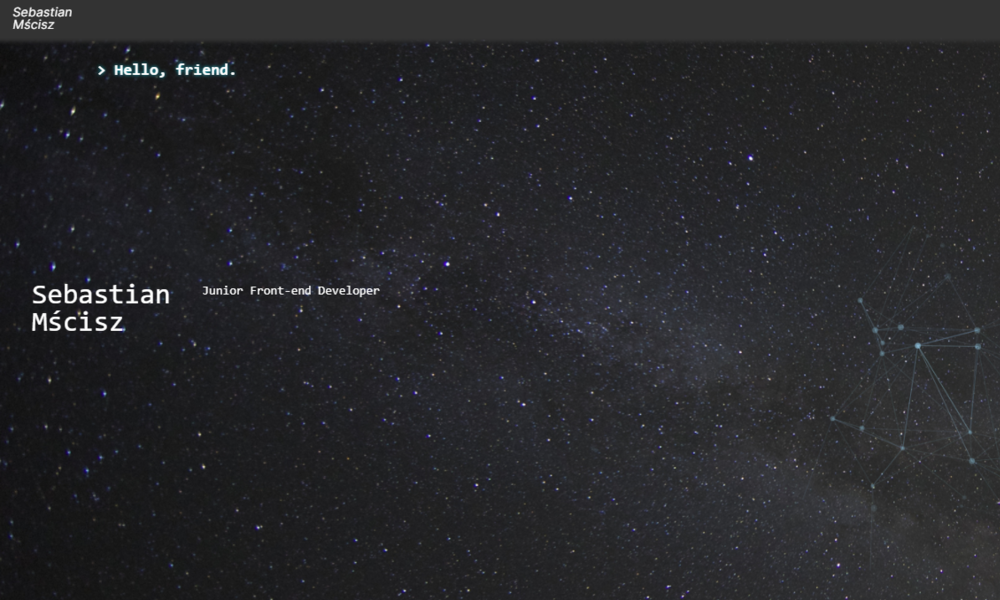
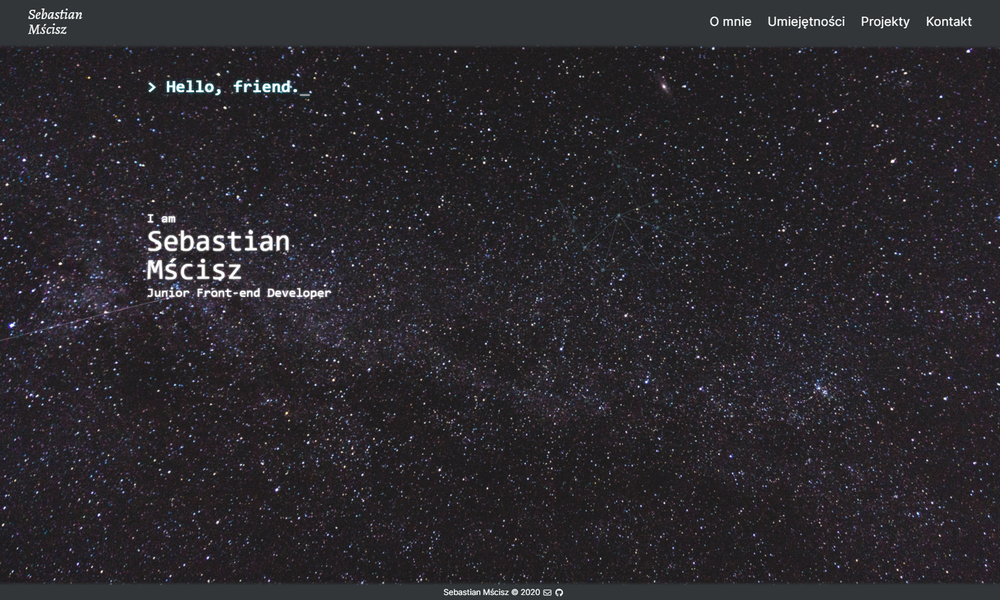
added hovered link on project images

diff --git a/src/layouts/NavBar.js b/src/layouts/NavBar.js
@@ -5,12 +5,6 @@ import { CSSTransition } from "react-transition-group";
 const NavBar = (props) => {
   return (
     <>
-      {/* <CSSTransition
-        in={props.toggleMenuVisibility}
-        timeout={700}
-        classNames="header__droplist"
-        unmountOnExit
-      > */}
       <div
         className={
           props.toggleMenuVisibility
@@ -19,21 +13,40 @@ const NavBar = (props) => {
         }
       >
         <div className="header__menu">
-          <NavLink to="/about" className="header__menu__item" exact>
+          <NavLink
+            to="/about"
+            className="header__menu__item"
+            exact
+            activeClassName="header__menu__item--active"
+          >
             O mnie
           </NavLink>
-          <NavLink to="/skills" className="header__menu__item" exact>
+          <NavLink
+            to="/skills"
+            className="header__menu__item"
+            exact
+            activeClassName="header__menu__item--active"
+          >
             Umiejętności
           </NavLink>
-          <NavLink to="/projects" className="header__menu__item" exact>
+          <NavLink
+            to="/projects"
+            className="header__menu__item"
+            exact
+            activeClassName="header__menu__item--active"
+          >
             Projekty
           </NavLink>
-          <NavLink to="/contact" className="header__menu__item" exact>
+          <NavLink
+            to="/contact"
+            className="header__menu__item"
+            exact
+            activeClassName="header__menu__item--active"
+          >
             Kontakt
           </NavLink>
         </div>
       </div>
-      {/* </CSSTransition> */}
     </>
   );
 };

diff --git a/src/utils/ProjectSection.js b/src/utils/ProjectSection.js
@@ -10,21 +10,21 @@ const ProjectSection = (props) => {
     <>
       <div className="content__row content__row--projects">
         <h2 className="heading heading--h2">{props.title}</h2>
-        <img
-          className="content__row__image content__row__image--projects"
-          src={props.image}
-        ></img>
+        <div className="project-image__wrap">
+          <img className="project-image__image" src={props.image}></img>
+          <div className="project-image__text-wrap">
+            <a href={props.link} className="project-image__text">
+              <span className="fas fa-link"></span>&nbsp;{props.link}
+            </a>
+          </div>
+        </div>
         <CSSTransition
           in={toggleMenuVisibility}
           timeout={400}
           classNames="project-section-toggle"
           unmountOnExit
         >
-          <div>
-            {/* <p className="content__row__text content__row__text--projects"> */}
-            {props.text}
-            {/* </p> */}
-          </div>
+          <div>{props.text}</div>
         </CSSTransition>
         <button
           className="content__row__button"

diff --git a/src/pages/ProjectsPage.js b/src/pages/ProjectsPage.js
@@ -29,6 +29,9 @@ const ProjectsPage = () => {
             <ProjectSection
               title={"La Stravaganza"}
               image={lastravaganzaImage}
+              link={
+                "https://sebastian-mscisz.github.io/LaStravaganza-Project/#/"
+              }
               text={
                 <>
                   <p className="content__row__text content__row__text--projects">
@@ -68,6 +71,7 @@ const ProjectsPage = () => {
             <ProjectSection
               title={"Tododo"}
               image={tododoImage}
+              link={"https://sebastian-mscisz.github.io/ToDoDo/#/"}
               text={
                 <>
                   <p className="content__row__text content__row__text--projects">
@@ -104,6 +108,7 @@ const ProjectsPage = () => {
             <ProjectSection
               title={"Strona portfolio"}
               image={portfolioImage}
+              link={"http://localhost:8080/#/"}
               text={
                 <>
                   <p className="content__row__text content__row__text--projects">

diff --git a/src/sass/_project-images.scss b/src/sass/_project-images.scss
@@ -1,0 +1,49 @@
+.project-image__wrap {
+  position: relative;
+  @include for-size(desktop) {
+    width: 70%;
+    margin-left: 15%;
+    margin-right: 15%;
+  }
+}
+.project-image__image {
+  width: 100%;
+  object-fit: contain;
+  @include for-size(desktop) {
+    border: 3px solid rgba(254, 254, 254, 0.5);
+    border-radius: 25px;
+  }
+}
+
+.project-image__text-wrap {
+  position: absolute;
+  top: 0;
+  bottom: 0;
+  left: 0;
+  right: 0;
+  color: #fefefe;
+  visibility: hidden;
+  opacity: 0;
+  display: flex;
+  align-items: center;
+  justify-content: center;
+  transition: opacity 0.4s, visibility 0.4s;
+}
+
+.project-image__wrap:hover .project-image__text-wrap {
+  visibility: visible;
+  opacity: 1;
+}
+.project-image__wrap:hover .project-image__image {
+  filter: blur(5px);
+}
+.project-image__text {
+  color: #fefefe;
+  font-size: 1.1rem;
+  transition: 0.4s;
+  transform: translateY(1em);
+}
+
+.project-image__wrap:hover .project-image__text {
+  transform: translateY(0);
+}

diff --git a/src/sass/_content.scss b/src/sass/_content.scss
@@ -97,8 +97,9 @@
     padding: 10px;
   }
   @include for-size(laptop) {
-    font-size: 1.2rem;
-    line-height: 1.7rem;
+    font-size: 1.4rem;
+    line-height: 1.9rem;
+    padding: 10px 25px;
   }
   &--contact {
     text-align: center;
@@ -123,8 +124,8 @@
       line-height: 1.5rem;
     }
     @include for-size(laptop) {
-      font-size: 1.1rem;
-      line-height: 1.6rem;
+      font-size: 1.3rem;
+      line-height: 1.8rem;
     }
     @include for-size(desktop) {
       margin: 0 10%;
@@ -152,13 +153,15 @@
       margin: 0 0 25px 25px;
     }
   }
-  &--projects {
-    @include for-size(desktop) {
-      width: 70%;
-      margin-left: 15%;
-      margin-right: 15%;
-    }
-  }
+  // &--projects {
+  //   @include for-size(desktop) {
+  //     border: 2px solid rgba(254, 254, 254, 0.5);
+  //     border-radius: 25px;
+  //     width: 70%;
+  //     margin-left: 15%;
+  //     margin-right: 15%;
+  //   }
+  // }
 }
 .content__row__button {
   cursor: pointer;

diff --git a/src/sass/_header.scss b/src/sass/_header.scss
@@ -128,6 +128,10 @@
     @include for-size(tablet) {
       font-size: 1.6rem;
     }
+    &--active {
+      color: darken(#fefefe, 15%);
+      border-bottom: 1px solid #fefefe;
+    }
     &:hover {
       opacity: 1;
       background-color: lighten(#323639, 5%);

diff --git a/src/sass/index.scss b/src/sass/index.scss
@@ -2,6 +2,7 @@
 @import "mixins.scss";
 @import "root.scss";
 @import "header.scss";
+@import "project-images";
 @import "content.scss";
 @import "heading.scss";
 @import "form.scss";

diff --git a/src/sass/_form.scss b/src/sass/_form.scss
@@ -24,6 +24,7 @@
     border-radius: 0.5em;
     @include for-size(tablet) {
       padding: 10px;
+      font-size: 1.2rem;
     }
     &--area {
       min-height: 100px;
